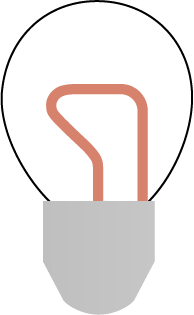
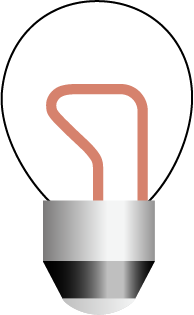
Use mipmap for light bulb, see https://github.com/phetsims/circuit-construction-kit-dc/issues/110

Changed region(s): [[0.2165, 0.6286, 0.8041, 1.0]]

diff --git a/js/view/CircuitElementToolbox.js b/js/view/CircuitElementToolbox.js
@@ -33,6 +33,7 @@ define( function( require ) {
   var Vertex = require( 'CIRCUIT_CONSTRUCTION_KIT_COMMON/model/Vertex' );
   var Wire = require( 'CIRCUIT_CONSTRUCTION_KIT_COMMON/model/Wire' );
   var WireNode = require( 'CIRCUIT_CONSTRUCTION_KIT_COMMON/view/WireNode' );
+  var Image = require( 'SCENERY/nodes/Image' );
 
   // strings
   var batteryString = require( 'string!CIRCUIT_CONSTRUCTION_KIT_COMMON/battery' );
@@ -47,6 +48,9 @@ define( function( require ) {
   var resistorString = require( 'string!CIRCUIT_CONSTRUCTION_KIT_COMMON/resistor' );
   var switchString = require( 'string!CIRCUIT_CONSTRUCTION_KIT_COMMON/switch' );
   var wireString = require( 'string!CIRCUIT_CONSTRUCTION_KIT_COMMON/wire' );
+
+  // images
+  var lightBulbImage = require( 'mipmap!CIRCUIT_CONSTRUCTION_KIT_COMMON/lightbulb-middle.png' );
 
   // constants
   var BATTERY_LENGTH = CircuitConstructionKitCommonConstants.BATTERY_LENGTH;
@@ -184,17 +188,8 @@ define( function( require ) {
       }
     );
 
-    var lightBulbModel = LightBulb.createAtPosition(
-      new Vector2( 0, 0 ),
-      circuit.vertexGroupTandem,
-      CircuitConstructionKitCommonConstants.DEFAULT_RESISTANCE,
-      circuit.lightBulbGroupTandem.createNextTandem(), {
-        highResistance: false
-      } );
     var lightBulbToolNode = createCircuitElementToolNode( lightBulbString, options.numberOfLightBulbs,
-      new CircuitConstructionKitLightBulbNode( null, null,
-        lightBulbModel,
-        new Property( true ), viewProperty, tandem.createTandem( 'lightBulbIcon' ), { icon: true } ),
+      new Image( lightBulbImage ),
       function( circuitElement ) { return circuitElement instanceof LightBulb && !circuitElement.highResistance; },
       function( position ) {
         return LightBulb.createAtPosition(
